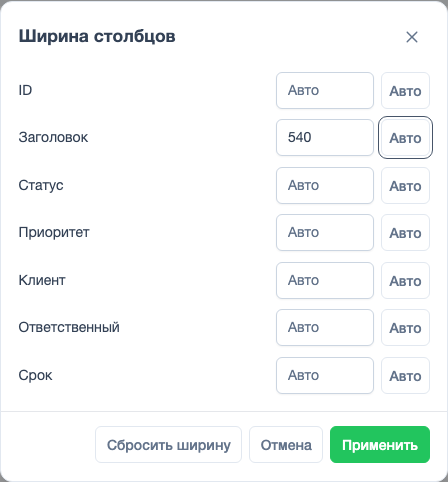
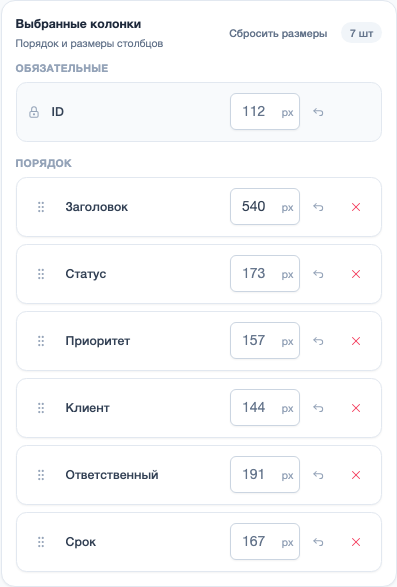
docs(interface): integrate width controls into selected columns

diff --git a/tools/generate-grid-column-widths-screenshots.py b/tools/generate-grid-column-widths-screenshots.py
@@ -1,5 +1,5 @@
 #!/usr/bin/env python3
-"""Capture only the production column-width dialog from a built Storybook."""
+"""Capture the existing column-settings drawer with its integrated size fields."""
 from __future__ import annotations
 
 import argparse
@@ -28,15 +28,13 @@ def main() -> None:
         with sync_playwright() as playwright:
             browser = playwright.chromium.launch()
             try:
-                page = browser.new_page(viewport={'width': 1440, 'height': 1000}, device_scale_factor=1)
-                page.goto(f'http://127.0.0.1:{server.server_port}/iframe.html?id=table-grid-column-widths--locked-system-tab&viewMode=story')
+                page = browser.new_page(viewport={'width': 1440, 'height': 1100}, device_scale_factor=1)
+                page.goto(f'http://127.0.0.1:{server.server_port}/iframe.html?id=table-grid-column-widths--open-editor&viewMode=story')
                 page.add_style_tag(content='*, *::before, *::after { animation: none !important; transition: none !important; }')
-                page.get_by_role('button', name='Ширина столбцов', exact=True).click()
-                dialog = page.get_by_role('dialog', name='Ширина столбцов', exact=True)
+                dialog = page.get_by_role('dialog', name='Колонки списка', exact=True)
                 dialog.wait_for(state='visible')
-                dialog.get_by_role('spinbutton').nth(1).fill('540')
-                dialog.get_by_role('spinbutton').nth(1).press('Tab')
-                dialog.screenshot(path=output)
+                dialog.locator('[data-width-code="TITLE"] input').wait_for(state='visible')
+                dialog.locator('[data-column-sizes]').screenshot(path=output)
             finally:
                 browser.close()
     finally:

diff --git a/docs/interface/lists-and-tables.md b/docs/interface/lists-and-tables.md
@@ -38,21 +38,23 @@
 
 Размеры принадлежат только вам. В списках они сохраняются отдельно для каждой вкладки и области: например, основной список заявок и заявки в карточке компании настраиваются независимо. В отчётах размеры основной таблицы и детализации тоже разделены.
 
-Для настройки с клавиатуры или на сенсорном экране:
+В списках размеры также можно изменить внутри существующей настройки колонок:
 
-1. Нажмите **Ширина столбцов**.
-2. Укажите размеры нужных столбцов в пикселях. **Авто** возвращает исходный размер одного столбца.
-3. Нажмите **Применить**. **Отмена** закрывает диалог без применения черновика.
+1. Нажмите шестерёнку **Колонки списка** в заголовке таблицы.
+2. Укажите ширину прямо в строках блока **Выбранные колонки**, рядом с названиями полей. Кнопка со стрелкой **Исходная ширина** рядом с полем возвращает исходный размер одного столбца.
+3. Нажмите **Сохранить**. **Отменить** и закрытие панели отбрасывают несохранённые правки.
 
-![Настройка ширины столбцов](/darneo-servicedesk-docs/assets/screenshots/interface/grid-column-widths.png){ .ds-screenshot }
+![Размеры внутри настройки колонок](/darneo-servicedesk-docs/assets/screenshots/interface/grid-column-widths.png){ .ds-screenshot }
 
-**Сбросить ширину** возвращает исходные размеры текущей таблицы. Фильтр, сортировка и состав колонок сохраняются. Для вложенных таблиц отчёта используйте **Ширина столбцов детализации**.
+**Сбросить размеры** возвращает исходные ширины текущей таблицы после нажатия **Сохранить**. Состав и порядок колонок, фильтр и размеры других вкладок сохраняются. Сброс внутри панели тоже можно отменить до сохранения.
+
+В отчётах и справочниках размеры запоминаются после перетаскивания границы столбца. Дополнительных кнопок для этого нет.
 
 Личная ширина доступна и на системной вкладке, где администратор запретил менять название или фильтр. Общие настройки и размеры у коллег при этом не меняются. Полный возврат к системным настройкам, если он разрешён, сбрасывает и личную ширину.
 
-Выбор состава колонок и действие **Копировать на все вкладки** управляют составом, а не размерами. Если скрыть столбец и затем вернуть его, сохранённая ширина восстановится.
+Действие **Копировать на все вкладки** управляет составом колонок, а не размерами. Если скрыть столбец и затем вернуть его, сохранённая ширина восстановится.
 
-Пока видна надпись **Сохраняем ширину…**, запись ещё выполняется. При ошибке локальные размеры остаются на экране: нажмите **Повторить**, чтобы сохранить их. На узком экране таблица прокручивается по горизонтали; сохранённые размеры автоматически не уменьшаются.
+При ошибке сохранения панель остаётся открытой с вашими правками. Закройте сообщение об ошибке и снова нажмите **Сохранить**. При сбое после перетаскивания локальный размер остаётся на экране; следующее изменение ширины повторяет попытку записи. На узком экране таблица прокручивается по горизонтали, сохранённые размеры автоматически не уменьшаются.
 
 ## Страницы и количество строк
 
